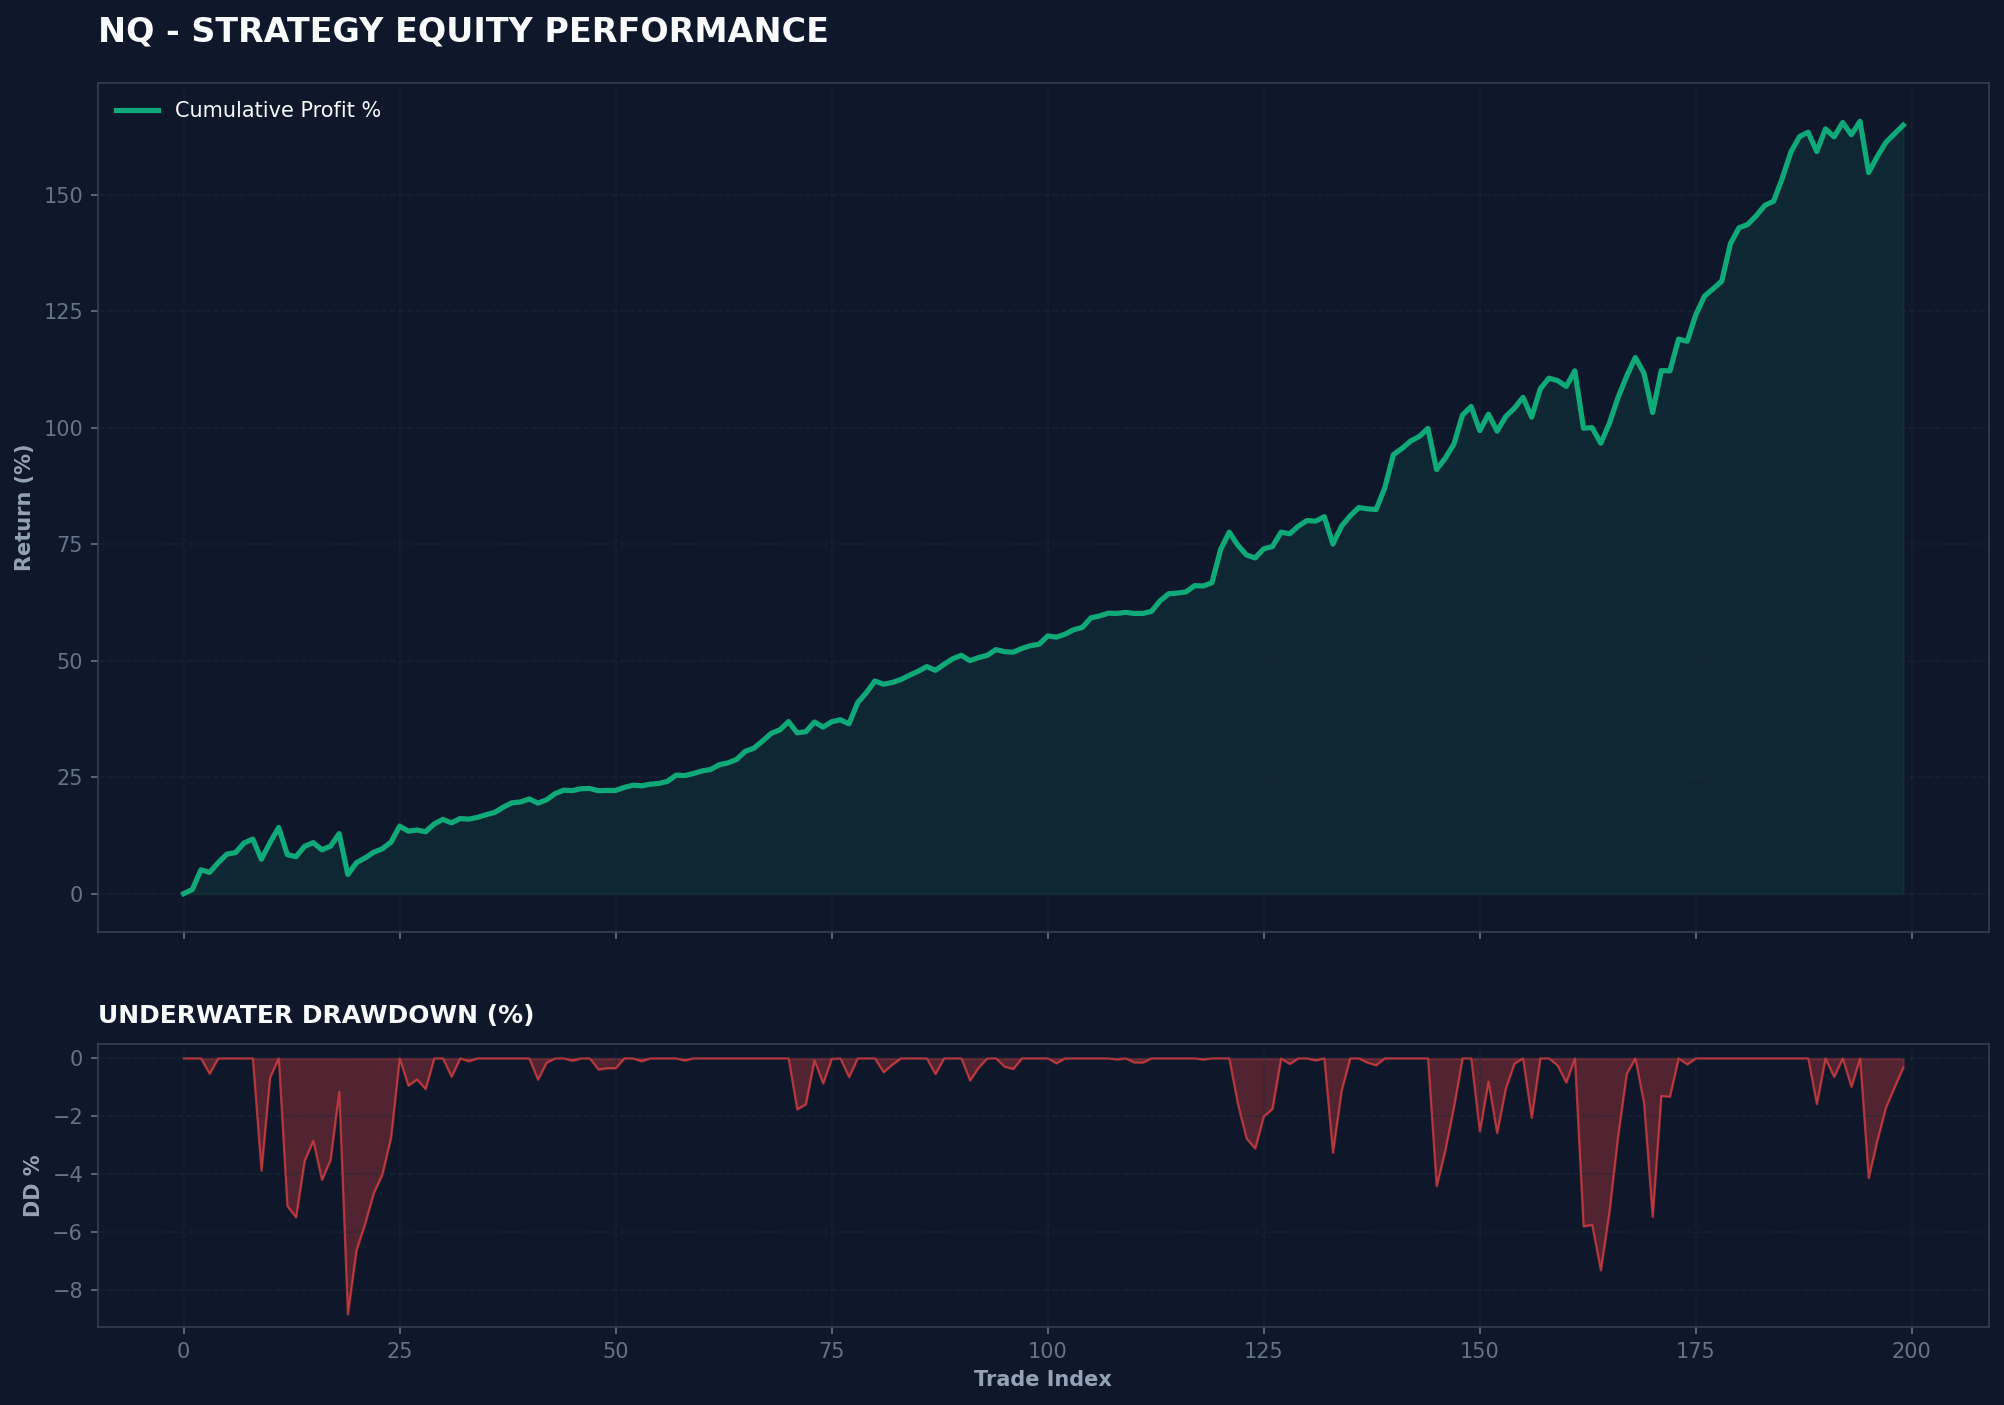
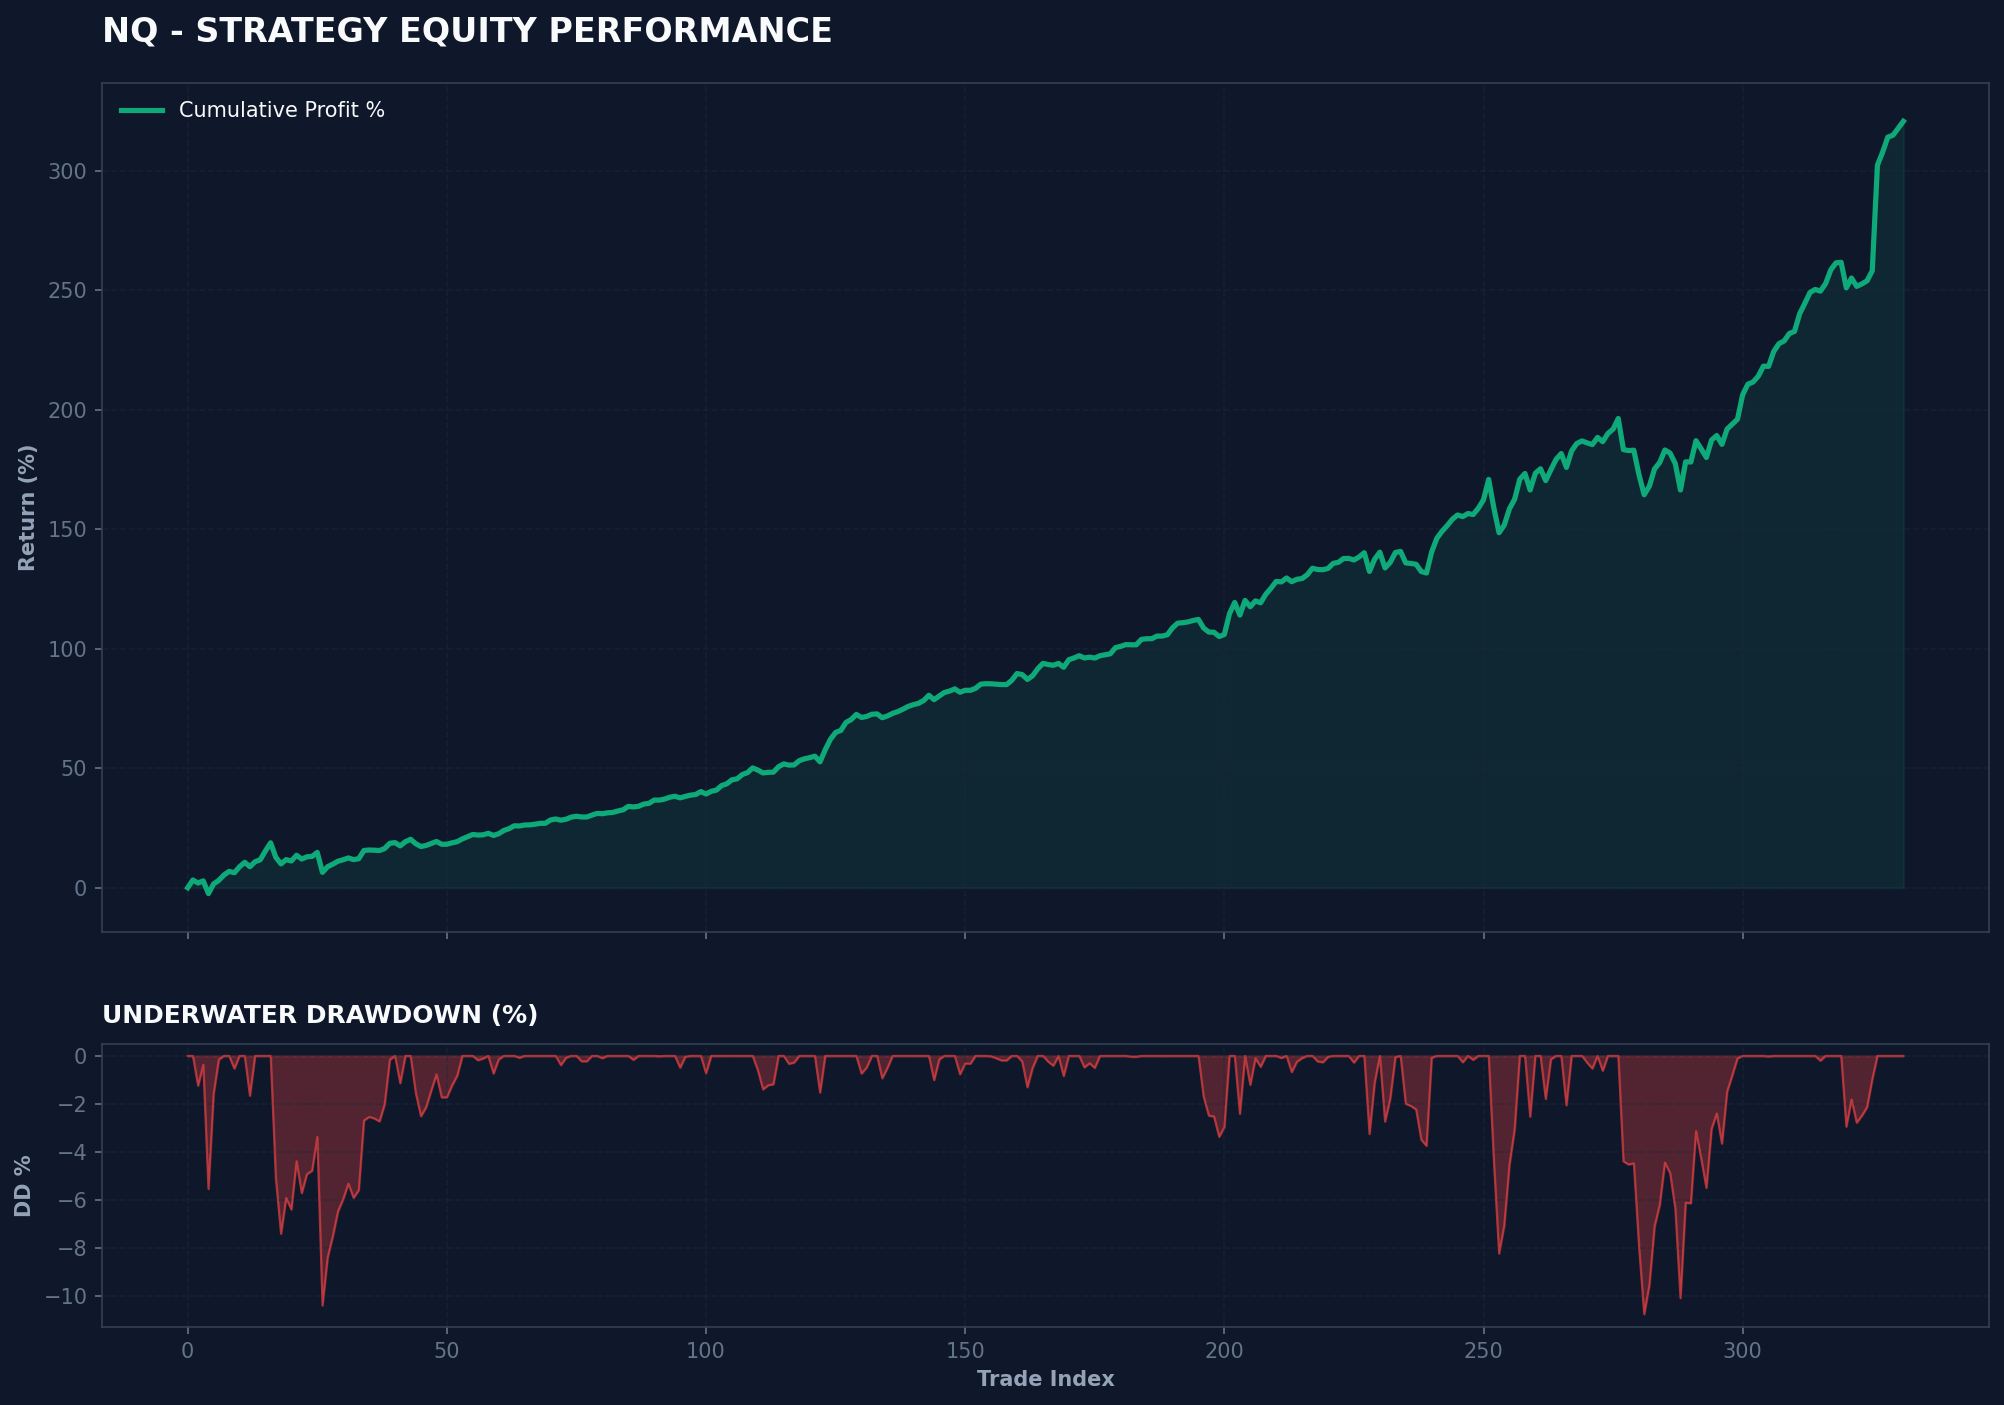
fix wfo plot

diff --git a/src/cli/run_wfo.py b/src/cli/run_wfo.py
@@ -119,7 +119,9 @@ def vectorized_run(df, params, drag=0.5, start_date=None, end_date=None):
     
     t_df = pd.DataFrame(trades)
     eq = metrics.cumulative_return(t_df['profit'])
-    sharpe = metrics.sharpe_ratio(t_df['profit'], start_date=start_date, end_date=end_date)
+    # Sharpe needs periodic returns, but for optimization we can use Sharpe of trade returns 
+    # as a proxy or interpolate back to daily. For speed, just use trade Sharpe.
+    sharpe = metrics.sharpe_ratio(t_df['profit'])
     
     # Return full result for OOS stitching
     return {
@@ -132,8 +134,7 @@ def vectorized_run(df, params, drag=0.5, start_date=None, end_date=None):
 def optimize_on_is(is_data, param_grid, objective="sharpe"):
     """Step 3 - The inner loop: optimize on IS"""
     best_params, best_score = None, -np.inf
-    
-    # Extract dates for IS scaling
+
     try:
         if 'Date' in is_data.columns and 'Time' in is_data.columns:
             is_start = pd.to_datetime(is_data.iloc[0]['Date'] + ' ' + is_data.iloc[0]['Time'])
@@ -145,8 +146,9 @@ def optimize_on_is(is_data, param_grid, objective="sharpe"):
             is_start, is_end = None, None
     except Exception:
         is_start, is_end = None, None
-
+    
     # Pre-calculate all Indicators for this IS fold once
+    # This saves massive time vs calculating inside the grid loop
     is_data = is_data.copy()
     # Note: Using hardcoded common windows to avoid recalculating per grid point
     # but since hurst_window varies in user's grid, we might need to handle it.
@@ -207,7 +209,7 @@ def main():
     
     # Load Data
     project_root = Path(__file__).parent.parent.parent
-    data_path = project_root / "data" / "raw" / "ES.csv"
+    data_path = project_root / "data" / "raw" / "EMD.csv"
     df_full = pd.read_csv(data_path)
     
     # Load Config for default thresholds
@@ -261,7 +263,7 @@ def main():
             oos_start, oos_end = None, None
 
         oos_result = vectorized_run(oos_data, best_params, start_date=oos_start, end_date=oos_end)
-        
+                
         oos_results.append({
             "fold": i + 1,
             "params": best_params,
@@ -272,7 +274,7 @@ def main():
             "oos_equity": oos_result["equity"],
         })
         print(f"  Best Params: {best_params}")
-        print(f"  IS Sharpe: {is_score:.2f} | OOS Sharpe: {oos_result['sharpe']:.2f} ({len(oos_result['trades'])} trades)")
+        print(f"  IS Sharpe: {is_score:.2f} | OOS Profit: {oos_result['profit']:.2f} ({len(oos_result['trades'])} trades)")
 
     # Step 5 - Stitch the OOS equity curve
     # Need to handle cumulative multiplier for stitching
@@ -318,7 +320,7 @@ def main():
     width = 0.35
     ax2.bar(x - width/2, is_sharpes, width, label='IS Sharpe', color='#10b981', alpha=0.7)
     ax2.bar(x + width/2, oos_sharpes, width, label='OOS Sharpe', color='#ef4444', alpha=0.7)
-    ax2.set_title("IS vs OOS Sharpe per Fold")
+    ax2.set_title("IS vs OOS Profit per Fold")
     ax2.set_xticks(x)
     ax2.set_xticklabels([f"F{i+1}" for i in x])
     ax2.legend()

diff --git a/src/cli/run_ablation.py b/src/cli/run_ablation.py
@@ -32,7 +32,7 @@ def main() -> None:
         config = yaml.safe_load(f)
 
     # Use the synchronized raw data for ES
-    data_path = project_root / "data" / "raw" / "ES.csv"
+    data_path = project_root / "data" / "raw" / "EMD.csv"
     try:
         df = pd.read_csv(data_path)
     except Exception as e:

diff --git a/src/cli/run_optimizer.py b/src/cli/run_optimizer.py
@@ -193,7 +193,7 @@ def main():
         return
 
     # 2. Data Loading
-    data_path = project_root / "data" / "raw" / "NQ.csv"
+    data_path = project_root / "data" / "raw" / "EMD.csv"
     try:
         df_full = pd.read_csv(data_path)
     except Exception as e:
